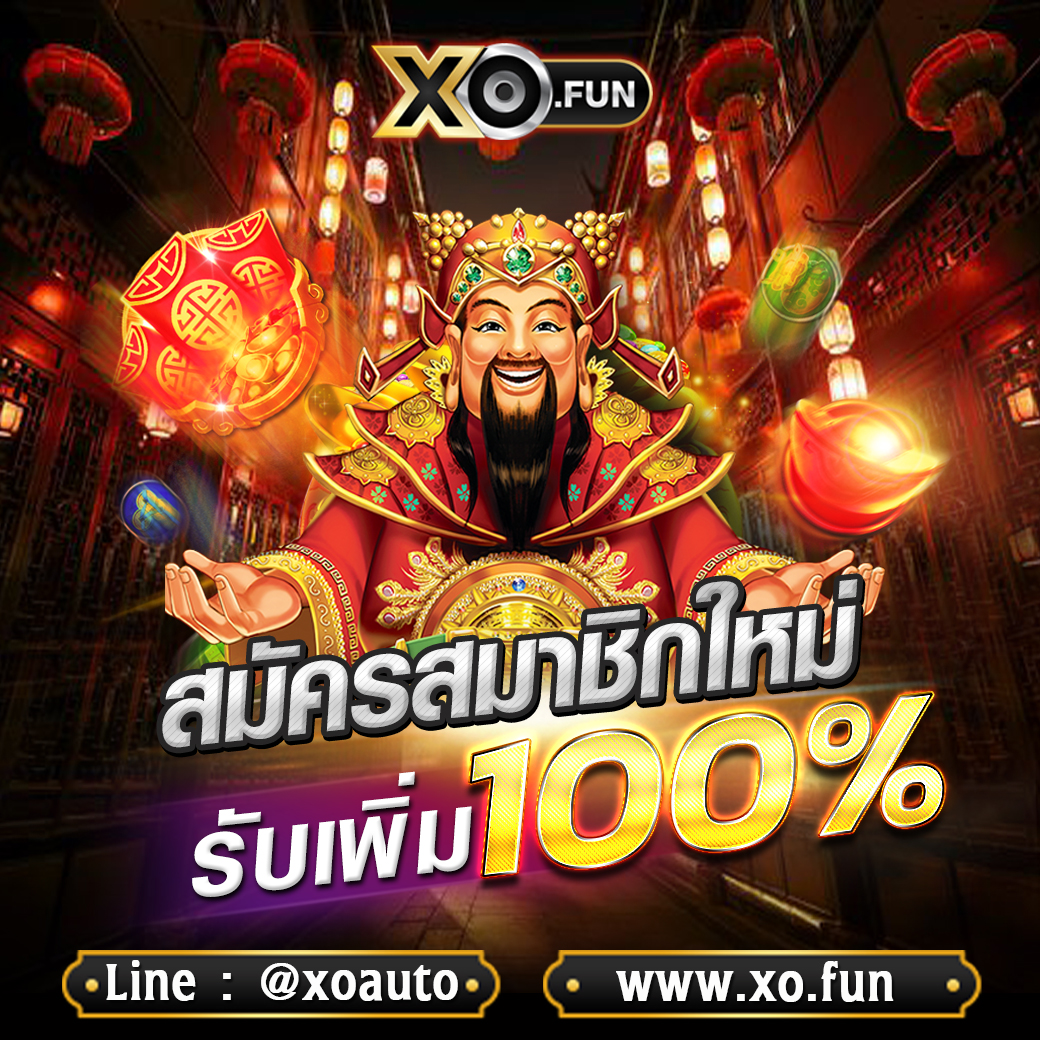
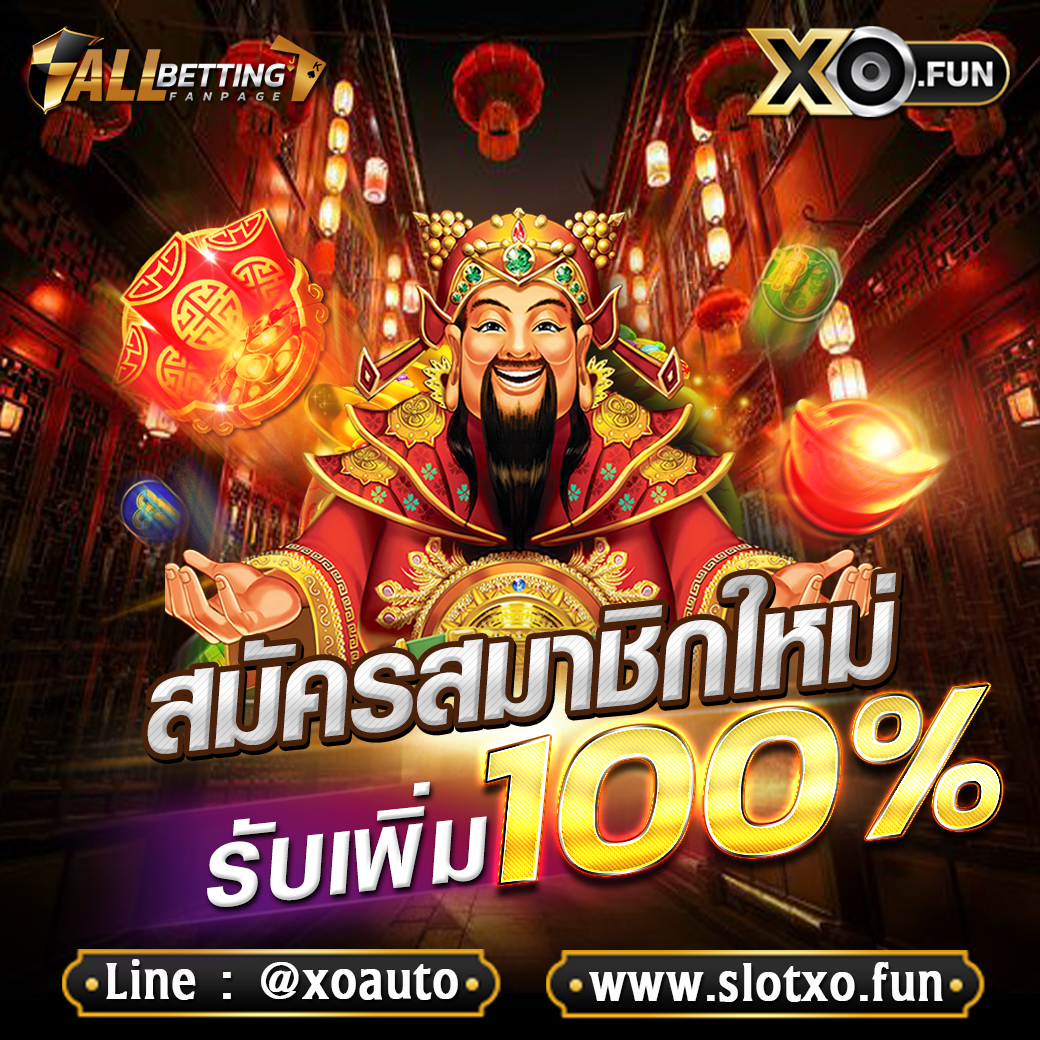
[+] edit picture

diff --git a/promotion.html b/promotion.html
@@ -329,7 +329,7 @@
               <div class="col-6 col-sm-3 px-2 mb-1">
                 <div class="text-center p-1 shadow-sm">
                   <a href="#" target="_blank" rel=”noopener”>
-                    <img class="img-fluid rounded" src="https://line.joker79.com/images/promotion/1581941495.jpg"
+                    <img class="img-fluid rounded" src="asset/img/sloxo5per.jpg"
                       alt="Slotxopromotion">
                   </a>
                   <a href="#" target="_blank" rel=”noopener”>

diff --git a/index.html b/index.html
@@ -311,6 +311,9 @@
                     <div class="carousel-item">
                       <img src="asset/img/promotionslotxo100.jpg" class="d-block w-100" alt="promotionslotxo100">
                     </div>
+                    <div class="carousel-item">
+                      <img src="asset/img/sloxo5per.jpg" class="d-block w-100" alt="promotionslotxo100">
+                    </div>
                   </div>
                 </div>
               </div>
